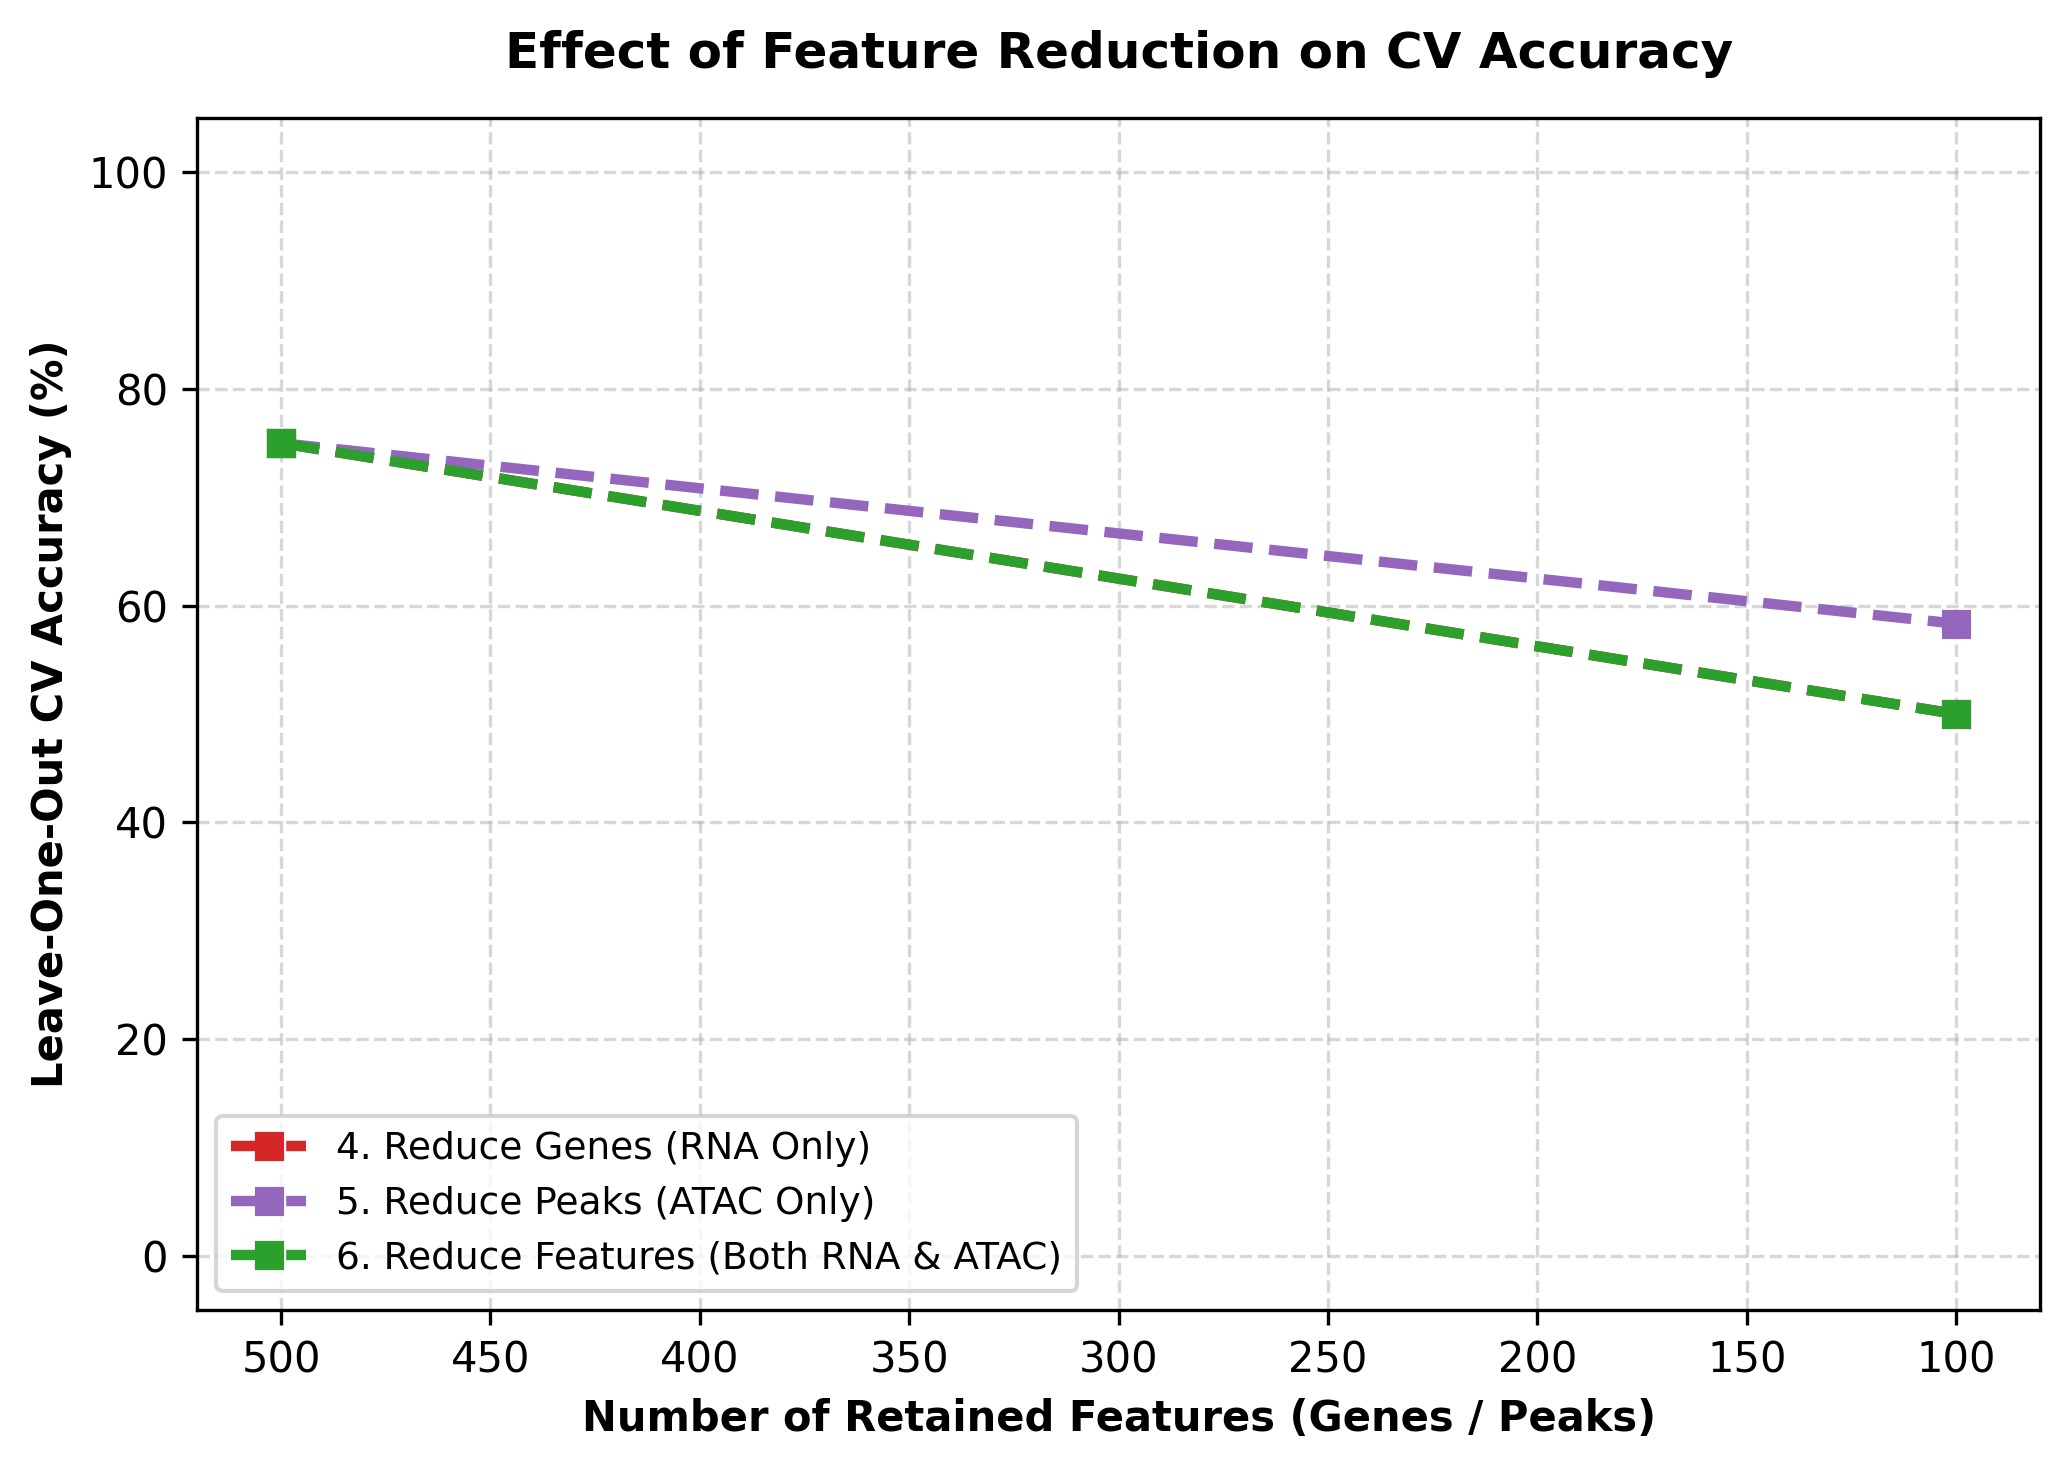
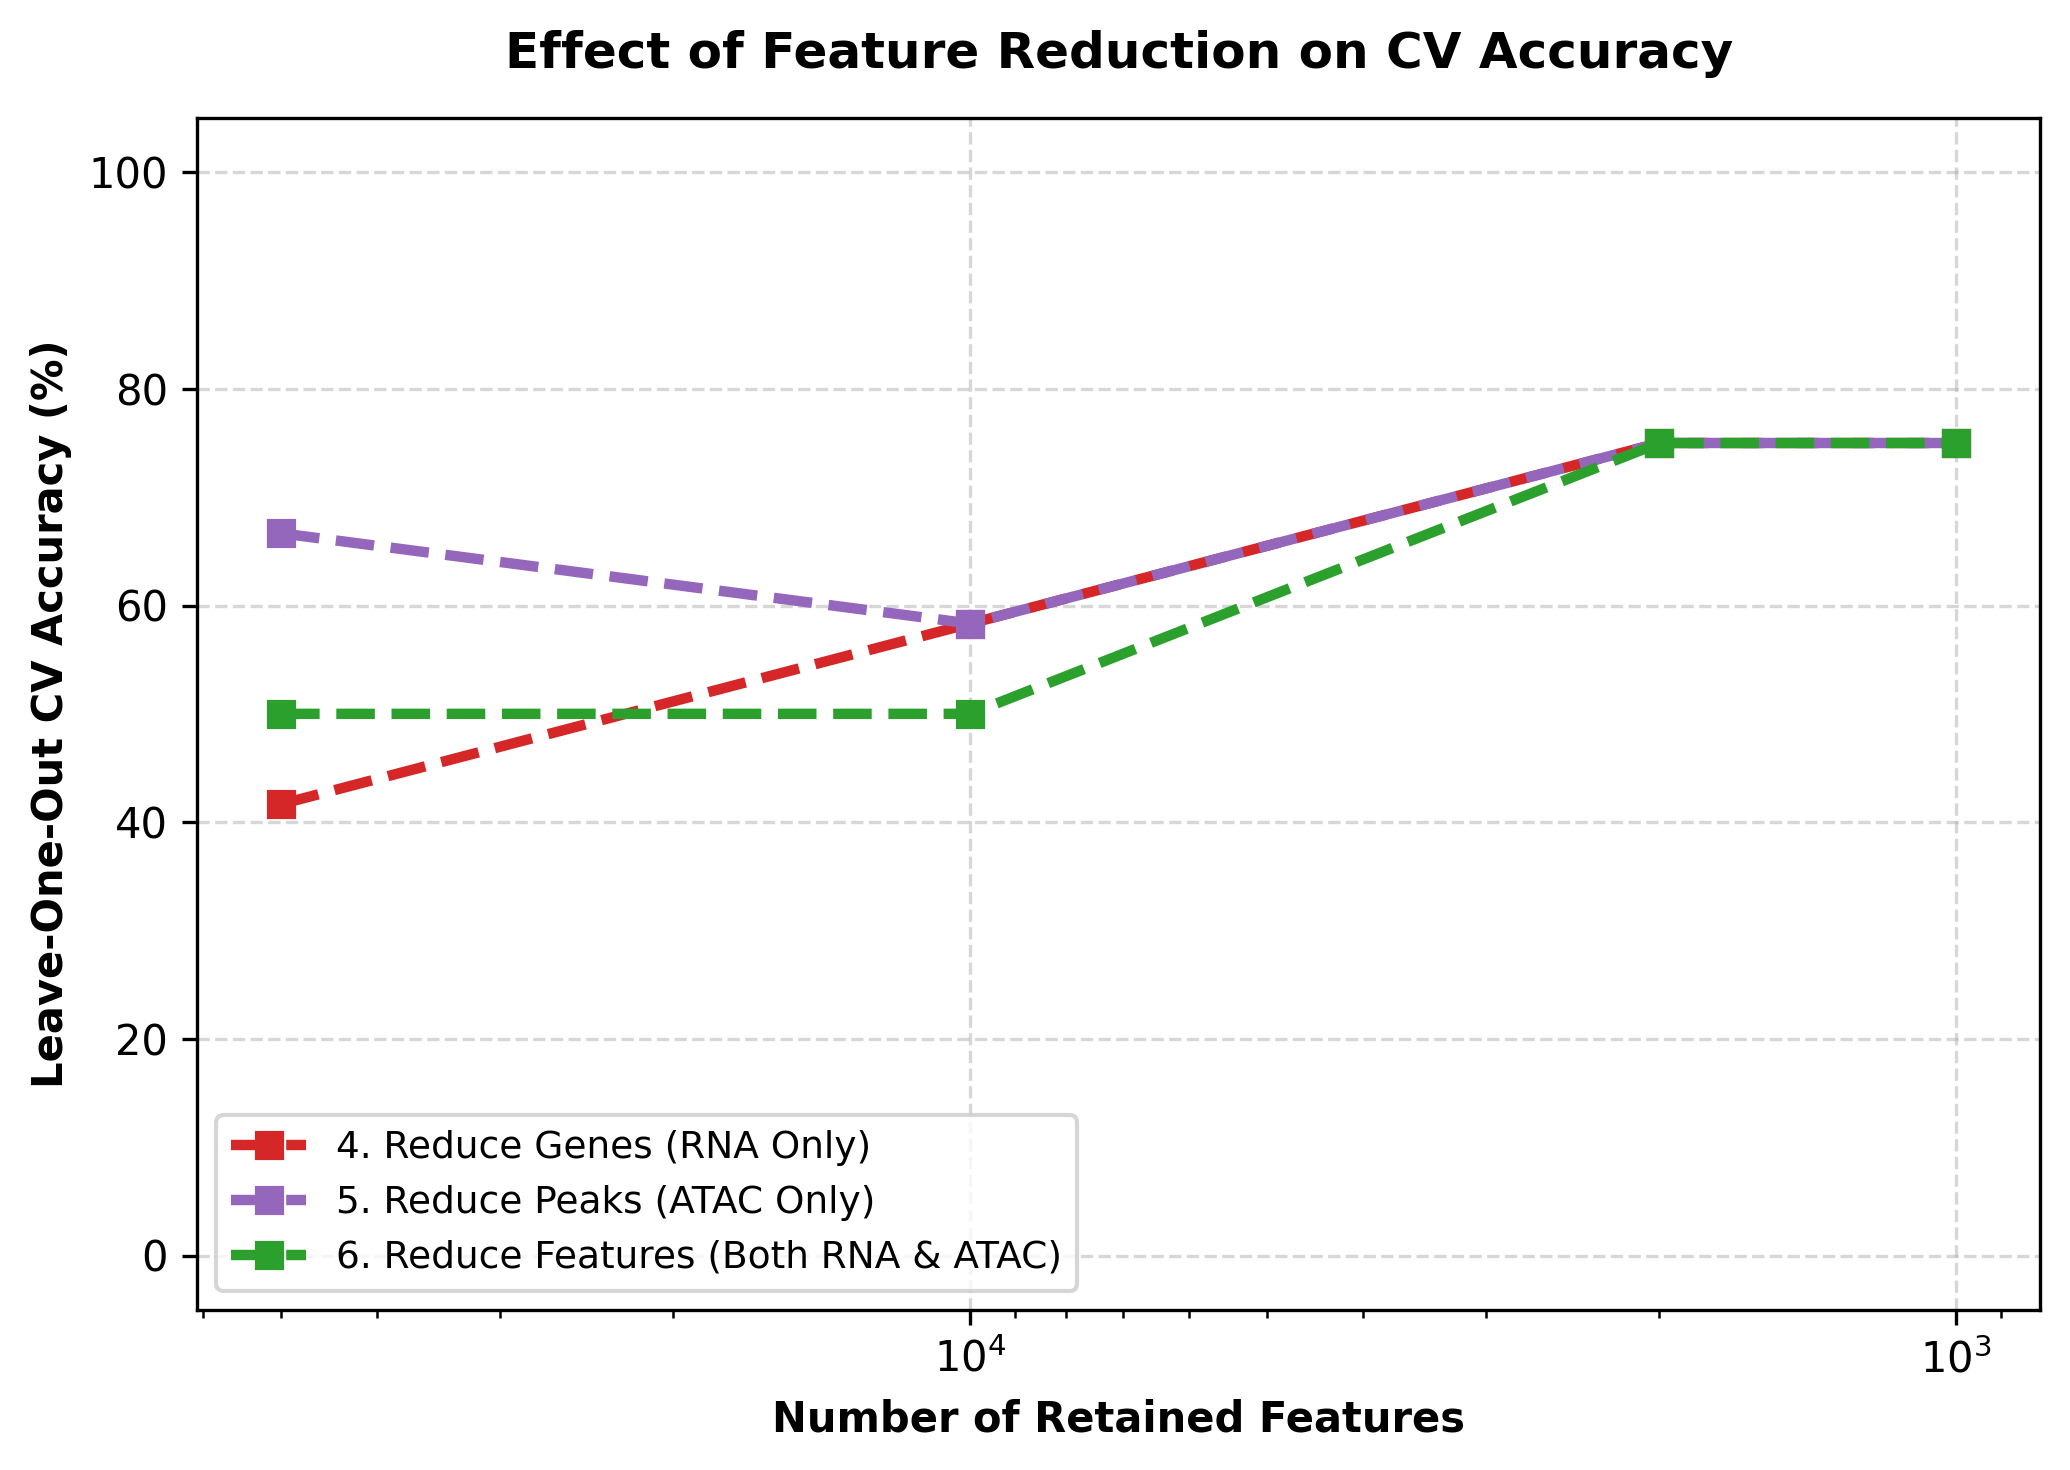
Screen across 50000-1000

diff --git a/ANALYSIS/r2x.py b/ANALYSIS/r2x.py
@@ -7,6 +7,7 @@ import anndata
 import matplotlib.pyplot as plt
 from sklearn.model_selection import LeaveOneOut
 from sklearn.metrics import accuracy_score
+from sklearn.pipeline import Pipeline
 
 # Ensure Python can see modules in the root directory
 sys.path.append(os.path.abspath(os.path.join(os.path.dirname(__file__), "..")))
@@ -19,11 +20,7 @@ def evaluate_pipeline(X_rna_in, X_atac_in, num_genes, num_peaks, eval_rank=5):
     X_rna_temp = X_rna_in.copy()
     X_atac_temp = X_atac_in.copy()
     
-    # Filter out 0-expression features created by subsampling to avoid duplicate bin crashes
-    sc.pp.filter_genes(X_rna_temp, min_cells=1)
-    sc.pp.filter_genes(X_atac_temp, min_cells=1)
-
-    # Filter out low-expression features (min 3 cells) created by heavy subsampling
+    # Filter out low-expression features (<3 cells)
     sc.pp.filter_genes(X_rna_temp, min_cells=3)
     sc.pp.filter_genes(X_atac_temp, min_cells=3)
 
@@ -111,50 +108,33 @@ def main():
 
 
     # Settings for Grid Search
-    fractions = [0.25, 0.05]
-    columns = ["25%", "5%"]
-    environments = [
-        "1. Remove Cells (Both RNA & ATAC)",
-        "2. Remove Cells (RNA Only)",
-        "3. Remove Cells (ATAC Only)",
+    columns = [50000, 10000, 2000, 1000]
+    feature_counts = [50000, 10000, 2000, 1000]
+
+    feature_environments = [
         "4. Reduce Genes (RNA Only)",
         "5. Reduce Peaks (ATAC Only)",
         "6. Reduce Features (Both RNA & ATAC)"
     ]
 
     # Initialize Tracking Dataframe
-    results_df = pd.DataFrame(index=environments, columns=columns)
+    results_df = pd.DataFrame(index=feature_environments, columns=columns)
     
-    # Baseline Sweet-spot parameters (2,000 features)
-    base_genes = 2000
-    base_peaks = 2000
+    # Baseline fallback parameters for unreduced modality 
+    base_features = 2000
 
-    for frac, col_name in zip(fractions, columns):
-        print(f"\n--- Running Sweep for Data Scale Step: {col_name} ---")
-        
-        # --- ENV 1: Downsample Cells for Both Modalities ---
-        rna_env1 = sc.pp.subsample(X_rna_base, fraction=frac, copy=True) if frac < 1.0 else X_rna_base.copy()
-        atac_env1 = sc.pp.subsample(X_atac_base, fraction=frac, copy=True) if frac < 1.0 else X_atac_base.copy()
-        results_df.loc["1. Remove Cells (Both RNA & ATAC)", col_name] = evaluate_pipeline(rna_env1, atac_env1, base_genes, base_peaks)
 
-        # --- ENV 2: Downsample Cells for RNA Only ---
-        rna_env2 = sc.pp.subsample(X_rna_base, fraction=frac, copy=True) if frac < 1.0 else X_rna_base.copy()
-        results_df.loc["2. Remove Cells (RNA Only)", col_name] = evaluate_pipeline(rna_env2, X_atac_base, base_genes, base_peaks)
-
-        # --- ENV 3: Downsample Cells for ATAC Only ---
-        atac_env3 = sc.pp.subsample(X_atac_base, fraction=frac, copy=True) if frac < 1.0 else X_atac_base.copy()
-        results_df.loc["3. Remove Cells (ATAC Only)", col_name] = evaluate_pipeline(X_rna_base, atac_env3, base_genes, base_peaks)
+    for feat_num, col_name in zip(feature_counts, columns):
+        print(f"\n--- Running Sweep for Data Scale Step: {col_name} features ---")
 
         # --- ENV 4: Scale RNA Features Only ---
-        current_genes = int(base_genes * frac) if int(base_genes * frac) >= 10 else 10
-        results_df.loc["4. Reduce Genes (RNA Only)", col_name] = evaluate_pipeline(X_rna_base, X_atac_base, current_genes, base_peaks)
+        results_df.loc["4. Reduce Genes (RNA Only)", col_name] = evaluate_pipeline(X_rna_base, X_atac_base, num_genes=feat_num, num_peaks=base_features)
 
         # --- ENV 5: Scale ATAC Features Only ---
-        current_peaks = int(base_peaks * frac) if int(base_peaks * frac) >= 10 else 10
-        results_df.loc["5. Reduce Peaks (ATAC Only)", col_name] = evaluate_pipeline(X_rna_base, X_atac_base, base_genes, current_peaks)
+        results_df.loc["5. Reduce Peaks (ATAC Only)", col_name] = evaluate_pipeline(X_rna_base, X_atac_base, num_genes=base_features, num_peaks=feat_num)
 
         # --- ENV 6: Scale BOTH Features Simultaneously ---
-        results_df.loc["6. Reduce Features (Both RNA & ATAC)", col_name] = evaluate_pipeline(X_rna_base, X_atac_base, current_genes, current_peaks)
+        results_df.loc["6. Reduce Features (Both RNA & ATAC)", col_name] = evaluate_pipeline(X_rna_base, X_atac_base, num_genes=feat_num, num_peaks=feat_num)
 
     # Print Final Summary Matrix to Terminal
     print("\n======================= FINAL ACCURACY MATRIX =======================")
@@ -164,68 +144,32 @@ def main():
     # Convert accuracy fractions (e.g., 1.0, 0.83) into percentages (100.0, 83.0)
     plot_df = results_df.astype(float) * 100
 
-    # X-axis labels for the cell downsampling plot
-    columns_pct = ["25%", "5%"]
-
-    # Actual feature counts for the gene/peak reduction plot (calculated from 2000 top features)
-    feature_counts = [500, 100]
     # ----------------------------------------------------
-    # PLOT 1: Cell Downsampling (Environments 1, 2, and 3)
+    # PLOT: Feature Reduction Across Explicit Counts 
     # ----------------------------------------------------
     plt.figure(figsize=(7, 5), dpi=300)
     
-    cell_envs = [
-        "1. Remove Cells (Both RNA & ATAC)",
-        "2. Remove Cells (RNA Only)",
-        "3. Remove Cells (ATAC Only)"
-    ]
-    colors_cell = ['#1f77b4', '#ff7f0e', '#2ca02c']
+    colors_feature = ['#d62728', '#9467bd', '#2ca02c']
 
-    # Plot each cell removal line
-    for env, color in zip(cell_envs, colors_cell):
-        plt.plot(columns_pct, plot_df.loc[env], marker='o', linewidth=2.5, label=env, color=color)
+    # Plot each feature reduction line
+    for env, color in zip(feature_environments, colors_feature):
+        plt.plot(feature_counts, plot_df.loc[env], marker='s', linestyle='--', linewidth=2.5, label=env, color=color)
 
-    plt.title("Effect of Cell Downsampling on CV Accuracy", fontsize=12, weight='bold', pad=12)
-    plt.xlabel("Percentage of Retained Cells", fontsize=10, weight='bold')
+    plt.title("Effect of Feature Reduction on CV Accuracy", fontsize=12, weight='bold', pad=12)
+    plt.xlabel("Number of Retained Features", fontsize=10, weight='bold')
     plt.ylabel("Leave-One-Out CV Accuracy (%)", fontsize=10, weight='bold')
     plt.ylim(-5, 105)
+    plt.xscale('log') #Uses logarithmic scale for x-axis to better visualize the range of feature counts
+    plt.gca().invert_xaxis()  # Inverts axis so it goes 50000 -> 1000 (left to right)
     plt.grid(True, linestyle='--', alpha=0.5)
     plt.legend(loc='lower left', fontsize=9)
     plt.tight_layout()
 
     # Save to dedicated cell plot file
-    plt.savefig("Plots/Cell_Downsampling_Plot.png", bbox_inches='tight', dpi=300)
-    plt.close()
-    # ----------------------------------------------------
-    # PLOT 2: Feature Reduction (Environments 4 and 5)
-    # ----------------------------------------------------
-    plt.figure(figsize=(7, 5), dpi=300)
-    
-    feature_envs = [
-        "4. Reduce Genes (RNA Only)",
-        "5. Reduce Peaks (ATAC Only)",
-        "6. Reduce Features (Both RNA & ATAC)"
-    ]
-    colors_feature = ['#d62728', '#9467bd', '#2ca02c']
-
-    # Plot each feature reduction line against actual feature counts
-    for env, color in zip(feature_envs, colors_feature):
-        plt.plot(feature_counts, plot_df.loc[env], marker='s', linestyle='--', linewidth=2.5, label=env, color=color)
-
-    plt.title("Effect of Feature Reduction on CV Accuracy", fontsize=12, weight='bold', pad=12)
-    plt.xlabel("Number of Retained Features (Genes / Peaks)", fontsize=10, weight='bold')
-    plt.ylabel("Leave-One-Out CV Accuracy (%)", fontsize=10, weight='bold')
-    plt.ylim(-5, 105)
-    plt.gca().invert_xaxis()  # Inverts axis so it goes 2000 -> 100 (left to right)
-    plt.grid(True, linestyle='--', alpha=0.5)
-    plt.legend(loc='lower left', fontsize=9)
-    plt.tight_layout()
-
-    # Save to dedicated feature plot file
     plt.savefig("Plots/Feature_Reduction_Plot.png", bbox_inches='tight', dpi=300)
     plt.close()
 
-    print("Pipeline complete! Plots saved as 'Plots/Cell_Downsampling_Plot.png' and 'Plots/Feature_Reduction_Plot.png'.")
+    print ("Pipeline Complete! Saved 'Plots/Feature_Reduction_Plot.png'.")
 
 if __name__ == "__main__":
     main()
